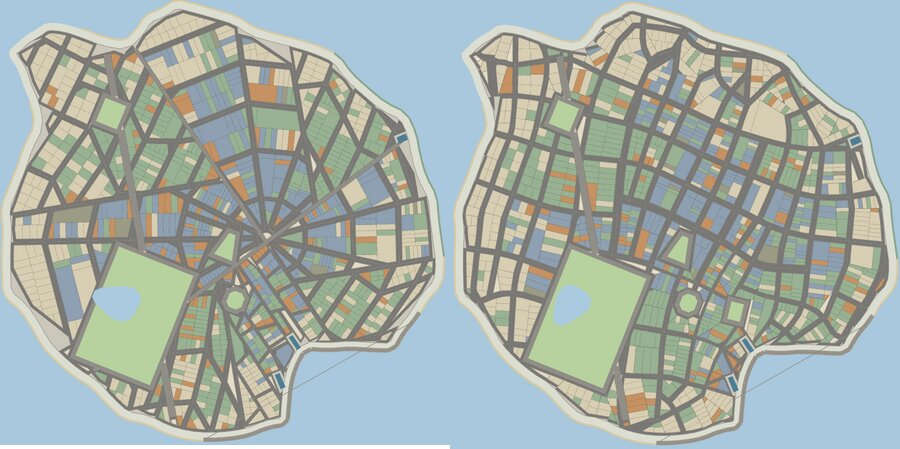
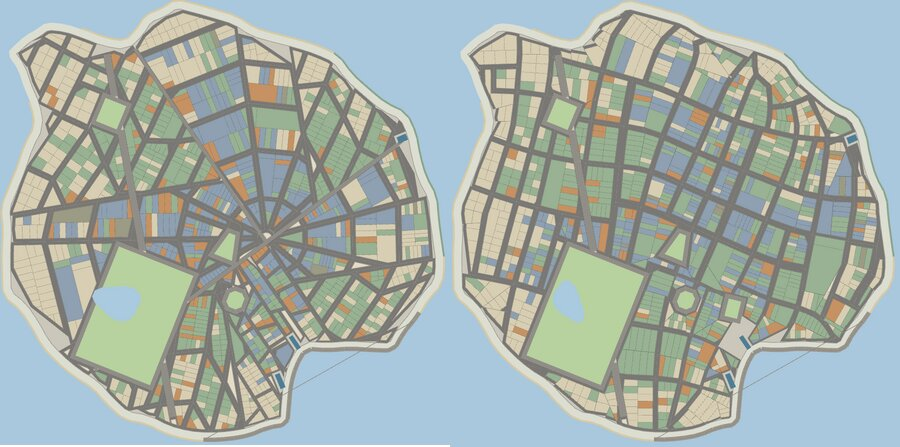
Natural streets: squares and boulevards pull the grid, downtown held to its survey, slivers merged
Review fixes: around a square the streets run on its grid for about two
blocks and a boulevard lays the fabric square to itself (clean trapezoids);
the core district's survey is held hardest; the radial old-town pull is
lighter so the harbour fan blends out; a face under 40% of the local block or
under 30 m wide is merged into its neighbour. 12 plat seeds: lots -3% vs
classic, slivers 0%, street share 1.61 -> 1.48. Classic byte-identical.

Claude-Session: https://claude.ai/code/session_01BSvUYUkZGsrMRDvk2r2obY

diff --git a/broadway-and-wall/CITYGEN_NEXT_PLAN.md b/broadway-and-wall/CITYGEN_NEXT_PLAN.md
@@ -72,6 +72,13 @@ inland toward the core) and get a 60 x 44 m market square there unless a program
 already sits within 150 m: Dock Square's order of size, squared to the shore. It is where
 the old town's roads converge, and without it they knot into wedges.
 
+**Squares, boulevards, downtown.** A square pulls the streets square to itself for about
+two blocks (weight 3, 170 m), a boulevard for a block and a half either side, so the blocks
+it cuts are clean trapezoids; downtown's survey is held hardest (weight 1.8 against 1.25 for
+other planned districts). **Slivers are merged**: a graph face under 40% of the local block
+or narrower than 30 m on average is merged into the neighbour it shares the most street
+with (the street between them is not built), never across the shore or a square.
+
 **Party lines.** A face too concave to be one convex block is cut into convex pieces only
 because the lot cutter wants convex blocks; the cut is a party line between two halves of
 one block, so it pays no street, and a half whose long side is that line is platted as one
@@ -119,17 +126,20 @@ Measured on the prototype (City size; `tools/platlib.mjs`):
 
 | seed | lots classic | lots natural | change | lot area classic → natural (M sf) |
 |---|---|---|---|---|
-| 2967923640 | 951 | 1011 | +6% | 7.88 → 7.53 (-4%) |
-| 1 | 1453 | 1347 | -7% | 7.33 → 7.69 (+5%) |
-| 20261 | 1384 | 1257 | -9% | 8.71 → 8.64 (-1%) |
-| 555 | 1191 | 1183 | -1% | 7.90 → 8.38 (+6%) |
-| 3252 | 1076 | 1123 | +4% | |
-| 481923 | 999 | 1067 | +7% | |
-| 2967923640 Great City | 3876 | 4176 | +8% | |
+| 2967923640 | 951 | 1030 | +8% | 7.88 → 7.99 (+1%) |
+| 1 | 1453 | 1396 | -4% | 7.33 → 7.99 (+9%) |
+| 20261 | 1384 | 1186 | -14% | 8.71 → 9.34 (+7%) |
+| 555 | 1191 | 1143 | -4% | 7.90 → 8.88 (+12%) |
+| 3252 | 1076 | 1055 | -2% | |
+| 481923 | 999 | 978 | -2% | |
+| 2967923640 Great City | 3876 | 4196 | +8% | |
 
-`test/plat.mjs` on its twelve pinned seeds (City): lots 13,257 classic → 12,728 natural
-(-4%); sliver 0% and spikes 0% in both; street share (pavement per unit of block) median
-1.61 classic → 1.58 natural; largest unprogrammed void the same (a park apron, 14,943 m2).
+`test/plat.mjs` on its twelve pinned seeds (City): lots 13,257 classic → 12,816 natural
+(-3%); sliver 0% and spikes 0% in both; street share (pavement per unit of block) median
+1.61 classic → 1.48 natural; largest unprogrammed void the same (a park apron, 14,943 m2).
+Land use still follows demand: in the top 15% of lots by demand, office is 51% / 40% / 54%
+of lots on seeds 2967923640 / 555 / 1 (classic 44% / 40% / 48%), and the town's office
+floor area is within -21% / +17% / +3% of classic.
 
 Lot counts stay inside the classic town-to-town spread (the economy's calibration reads lot
 count and area per size preset), and the natural network leaves less unprogrammed asphalt
